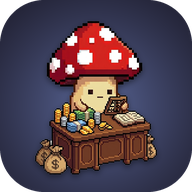
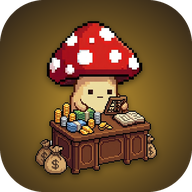
v1.13.6: fondo del ícono de BonaCuentas en dorado

diff --git a/index.html b/index.html
@@ -557,8 +557,11 @@
   // Bumpear en cada push, sin excepción — no importa el tamaño del cambio
   // (mismo criterio que lista-super, ver memoria "changelog discipline").
   // Entrada más nueva primero.
-  const APP_VERSION = '1.13.5';
+  const APP_VERSION = '1.13.6';
   const CHANGELOG = [
+    { version: '1.13.6', fecha: '2026-10-24', notas: [
+      'El fondo del ícono de BonaCuentas ahora es dorado en vez de azul, para distinguirlo de las otras apps de Bona.',
+    ] },
     { version: '1.13.5', fecha: '2026-10-24', notas: [
       'La app pasa a llamarse BonaCuentas (antes bonapp-gastos). Si la tenés instalada en el inicio, el nombre nuevo aparece al volver a agregarla.',
     ] },

diff --git a/sw.js b/sw.js
@@ -1,4 +1,4 @@
-const CACHE = "bonacuentas-v39";
+const CACHE = "bonacuentas-v40";
 const ASSETS = ["./", "./index.html", "./manifest.json", "./config.js", "./logic.js", "./charts.js", "./sync.js"];
 
 self.addEventListener("install", (event) => {
